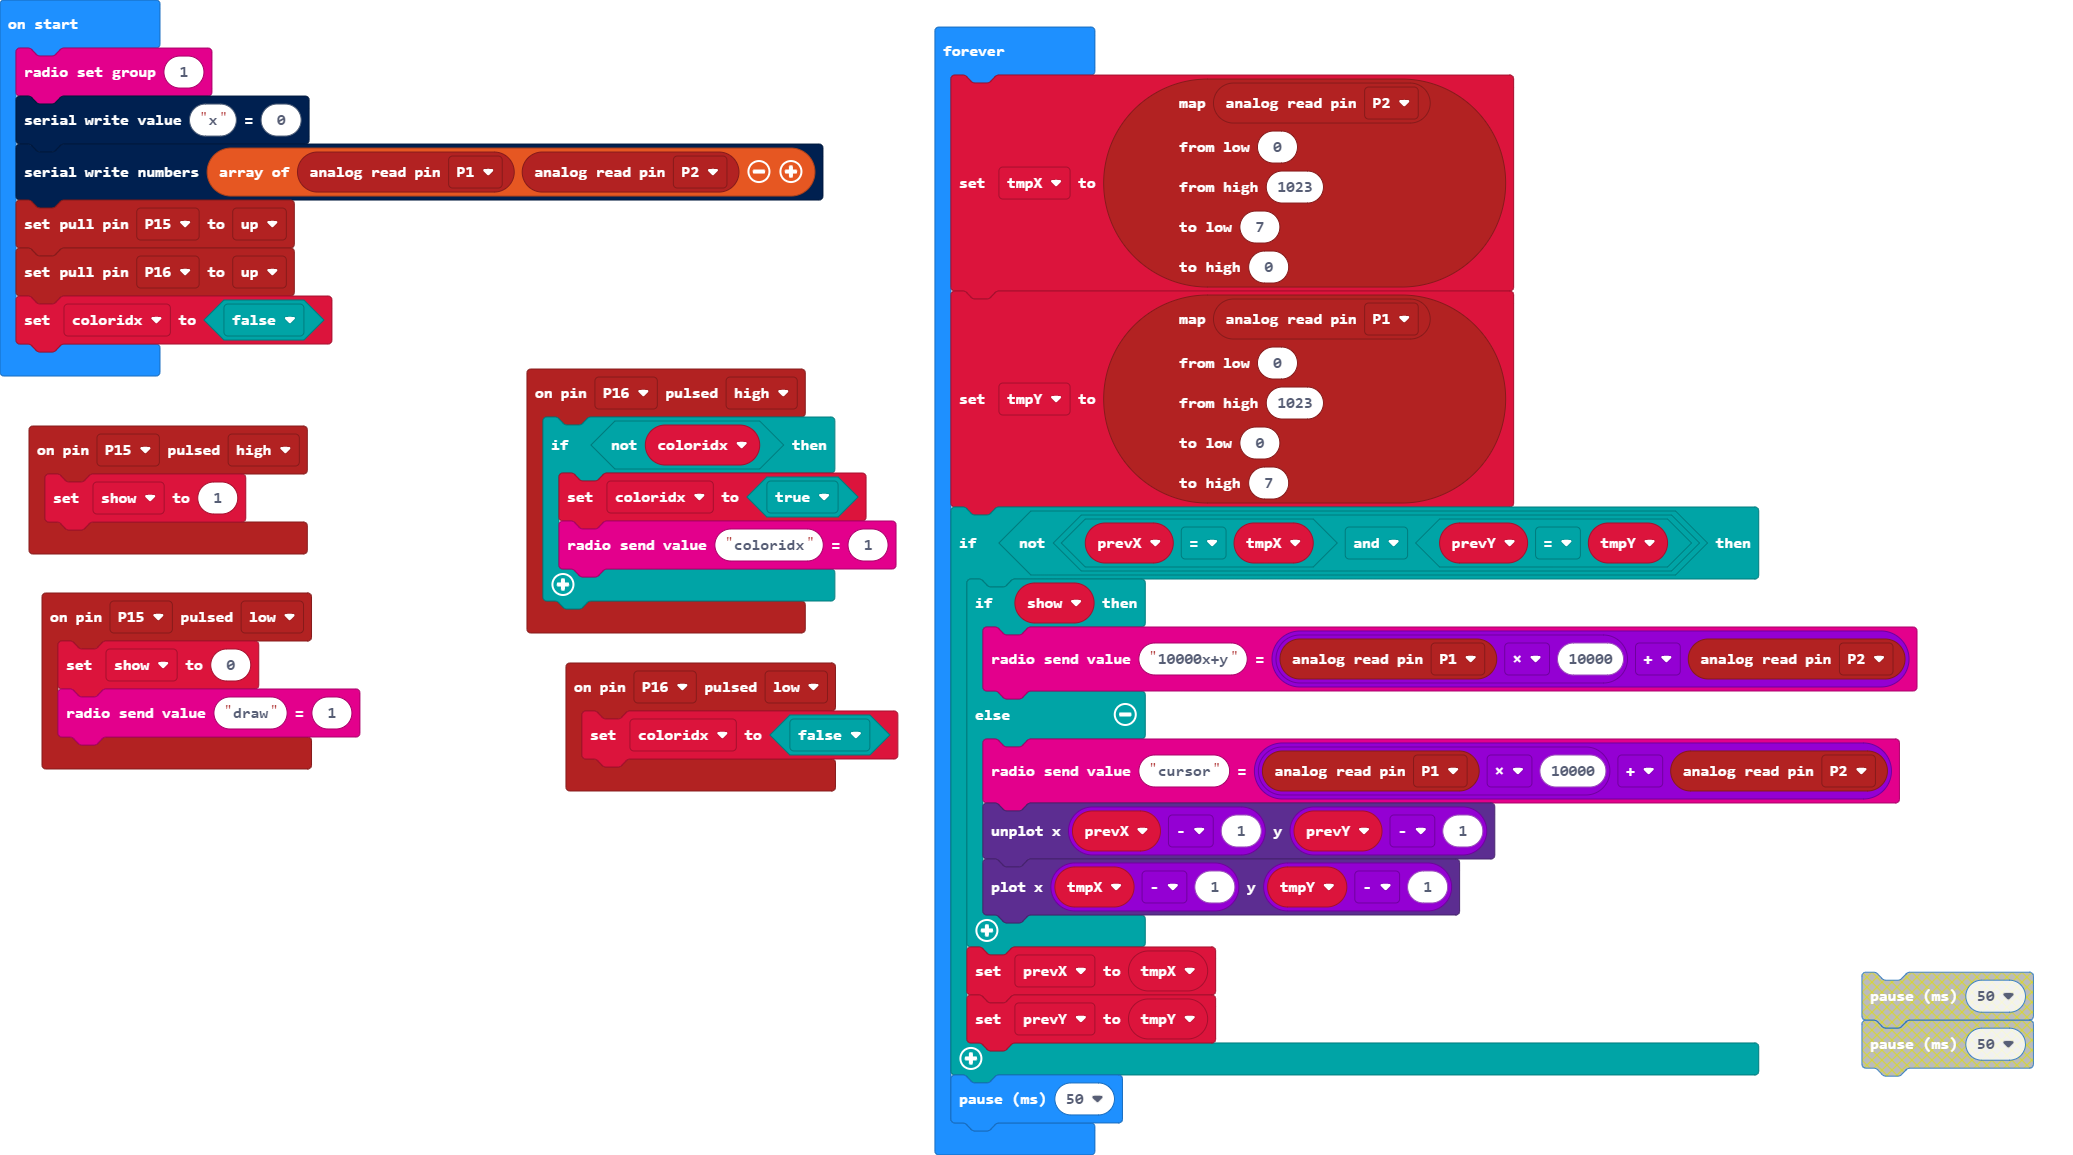
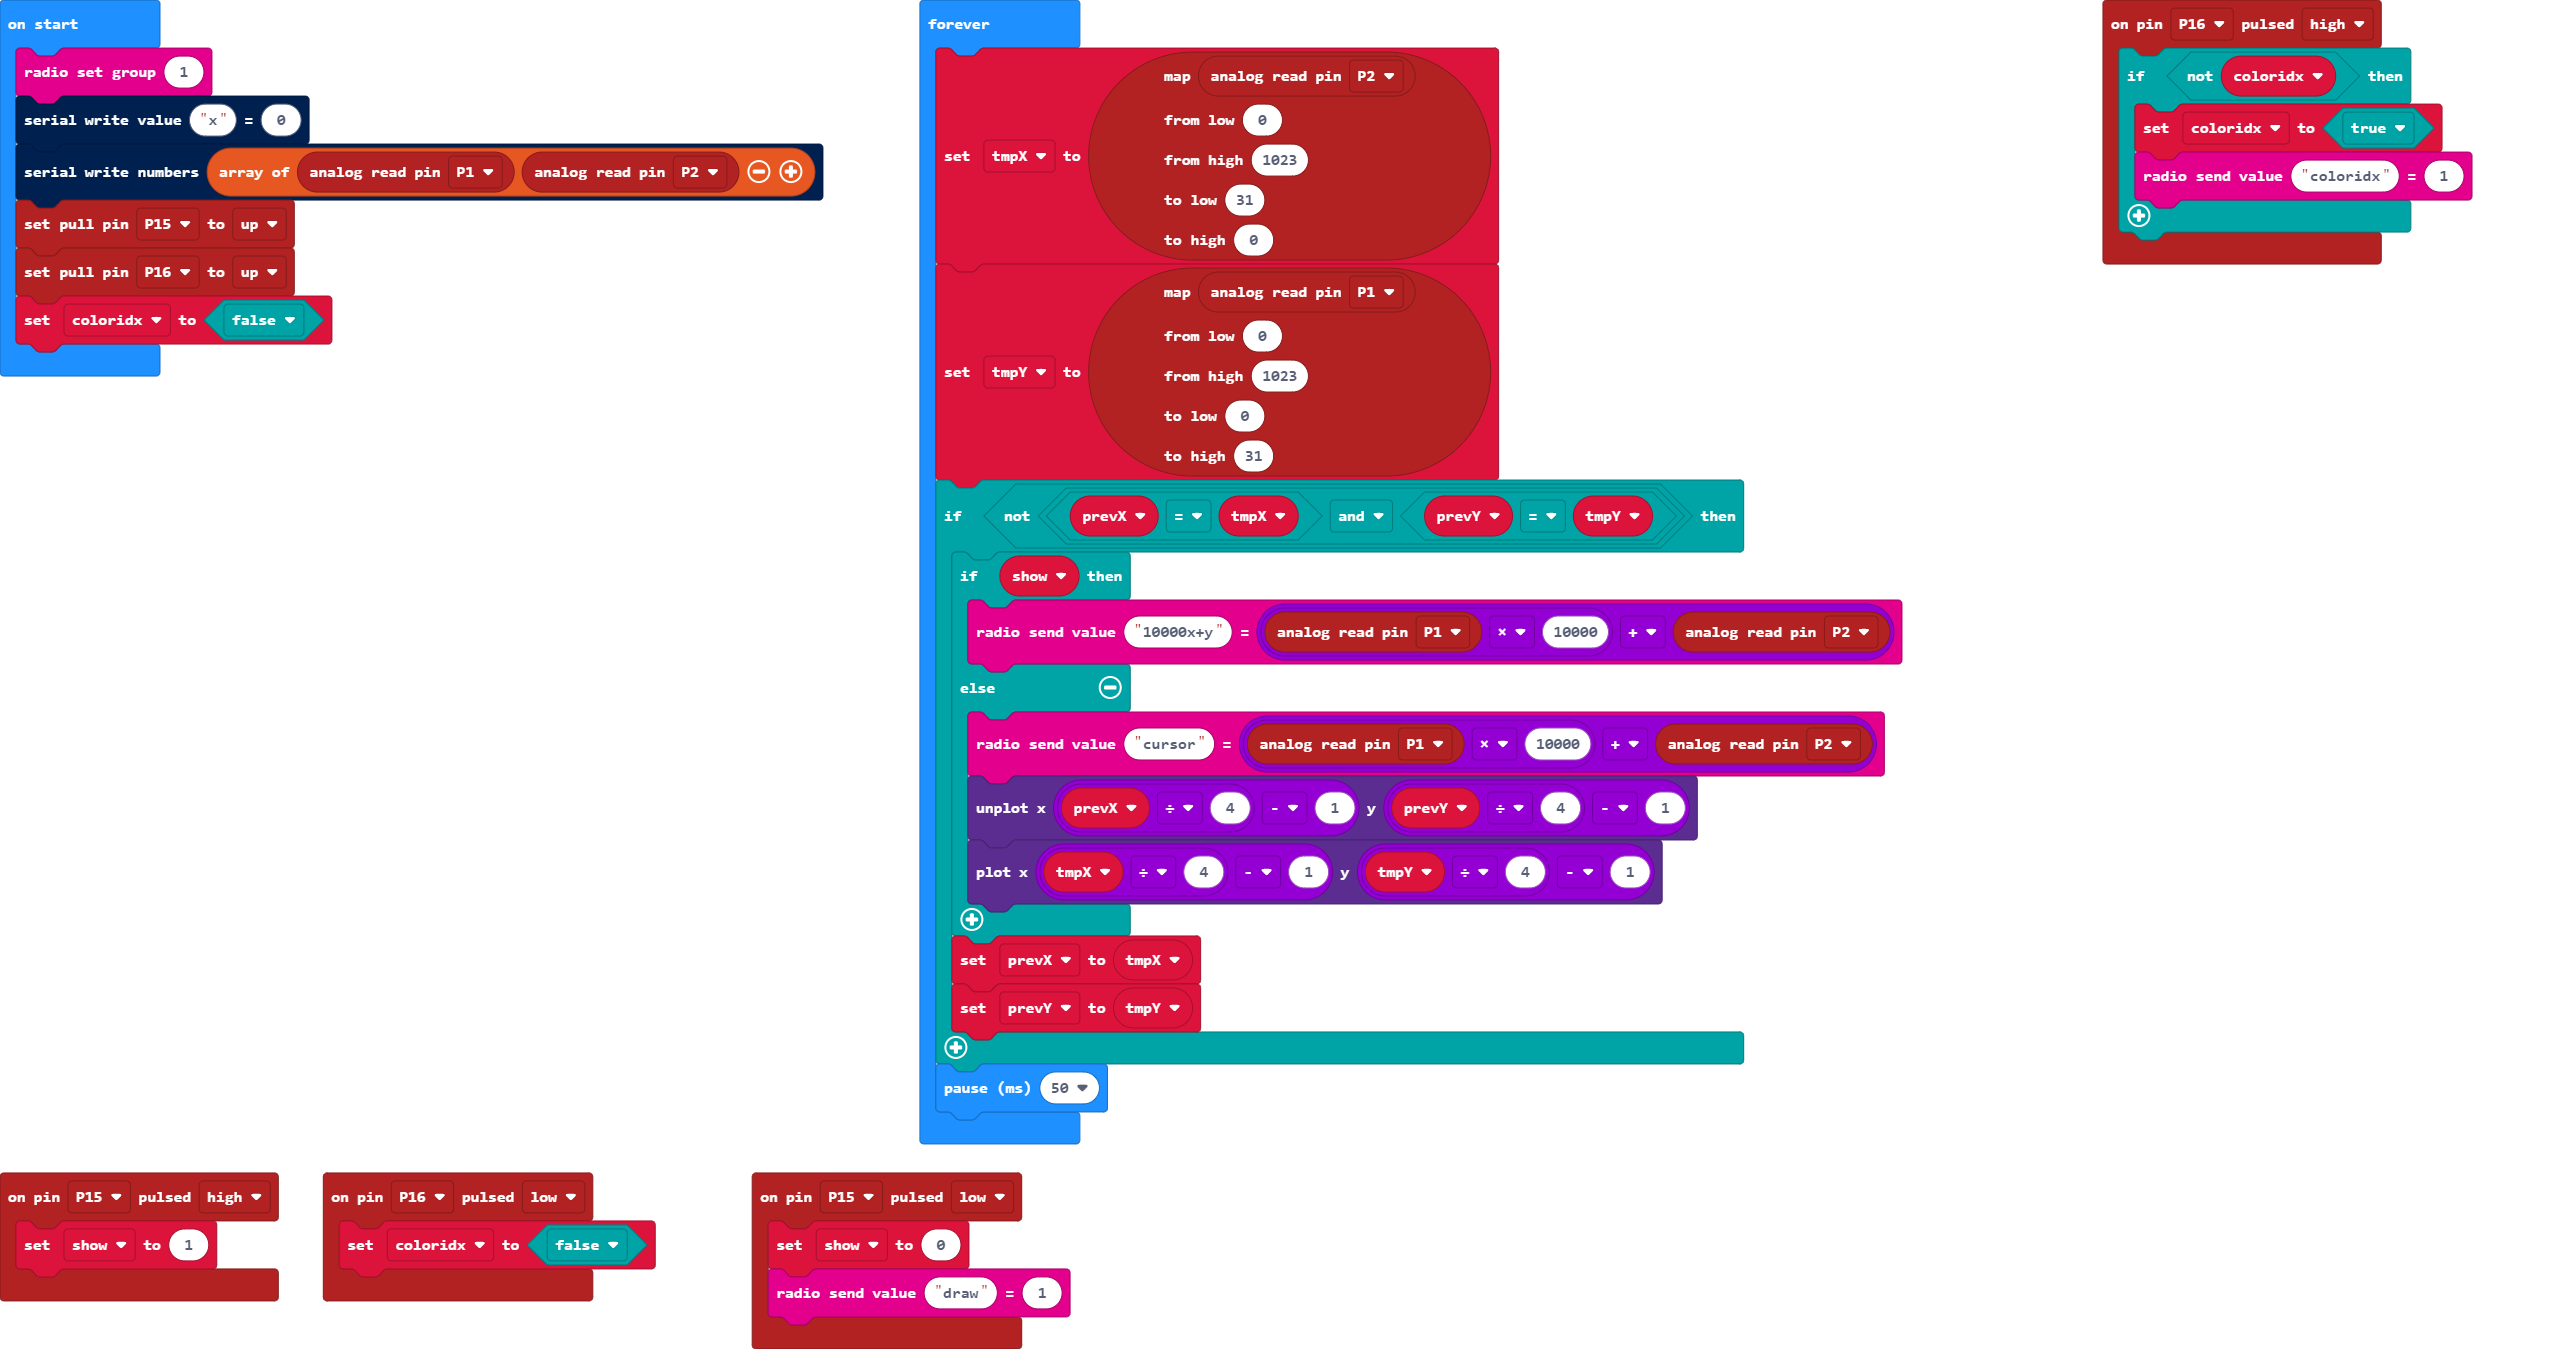
compare for more difference with prev value - send more values

diff --git a/main.ts b/main.ts
@@ -34,7 +34,7 @@ basic.forever(function () {
     pins.analogReadPin(AnalogPin.P2),
     0,
     1023,
-    7,
+    31,
     0
     )
     tmpY = pins.map(
@@ -42,15 +42,15 @@ basic.forever(function () {
     0,
     1023,
     0,
-    7
+    31
     )
     if (!(prevX == tmpX && prevY == tmpY)) {
         if (show) {
             radio.sendValue("10000x+y", pins.analogReadPin(AnalogPin.P1) * 10000 + pins.analogReadPin(AnalogPin.P2))
         } else {
             radio.sendValue("cursor", pins.analogReadPin(AnalogPin.P1) * 10000 + pins.analogReadPin(AnalogPin.P2))
-            led.unplot(prevX - 1, prevY - 1)
-            led.plot(tmpX - 1, tmpY - 1)
+            led.unplot(prevX / 4 - 1, prevY / 4 - 1)
+            led.plot(tmpX / 4 - 1, tmpY / 4 - 1)
         }
         prevX = tmpX
         prevY = tmpY
